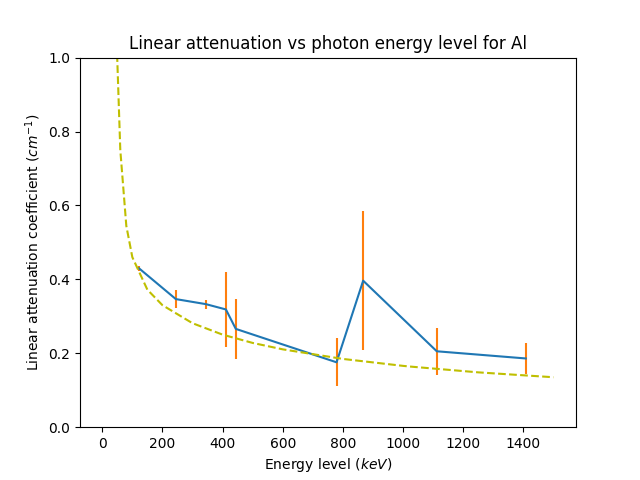
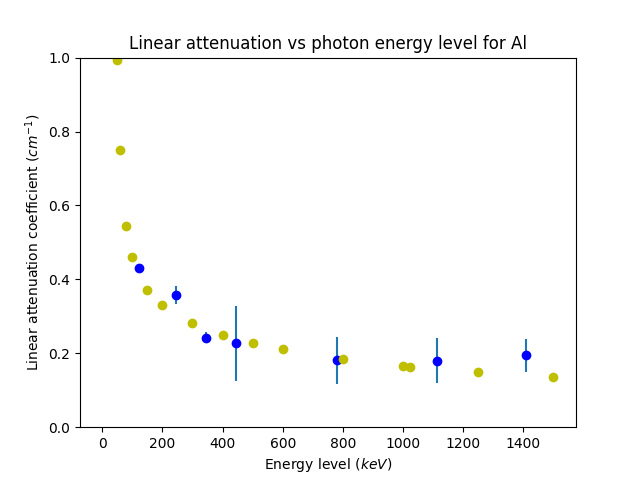
add spectra plots

diff --git a/main.py b/main.py
@@ -23,7 +23,8 @@ def normalise_counts (spe):
   """Normalise counts to be per unit (alive) time. Allows comparison."""
   return { **spe, "counts": spe["counts"] / spe["alive_time"] }
 
-def subtract_background_and_normalise (background):
+background = normalise_counts(parse_spe("Background.spe"))
+def subtract_background_and_normalise ():
   """Subtract normalised background counts and normalise to cnt/unit time."""
   def inner(spe):
     new_spe = normalise_counts(spe)
@@ -40,7 +41,8 @@ def plot_titles (title="", xlabel="", ylabel=""):
 def plot_peaks (spes, energy_levels):
   plt.yscale("log")
   for energy_level in energy_levels:
-    plt.plot(np.arange(len(spes)), [spe["peak"][energy_level][1][0] for spe in spes])
+    plt.plot(np.arange(len(spes)), [spe["peak"][energy_level][1][0] for spe in spes], label=energy_level)
+  plt.legend()
   plt.show()
 
 def peak_channel (spe, minch, maxch):
@@ -63,9 +65,11 @@ def peak_area (spe, a, b):
   """
   s = spe["counts"]
   gross_sum = np.sum(s[a:b+1])
-  area = gross_sum - (s[a]+s[b]) * (b-a) / 2
+  sa = (s[a]+s[a-1]+s[a+1])/3
+  sb = (s[b]+s[b-1]+s[b+1])/3
+  area = gross_sum - (sa+sb) * (b-a) / 2
   # we've normalised the data; unc is only valid for gross data hence the \div sqrt(t)
-  unc = math.sqrt(gross_sum + (s[a]+s[b]) * (b-a)**2 / 4) / math.sqrt(spe['alive_time'])
+  unc = math.sqrt(gross_sum + (sa+sb) * (b-a)**2 / 4 + math.sqrt(np.sum(background['counts'][a:b+1]))/background['alive_time']*math.sqrt(spe['alive_time'])) / math.sqrt(spe['alive_time'])
   return (area, unc)
 
 def smooth(spe):
@@ -77,8 +81,7 @@ def load_spes():
   Creates a filename-indexed dictionary of normalised spectrum dictionaries.
   Also adds filename :: String, absorber :: (String, Int), nuclide :: String fields.
   """
-  background = normalise_counts(parse_spe("Background.spe"))
-  normalise = subtract_background_and_normalise(background)
+  normalise = subtract_background_and_normalise()
   filenames = [
     "152Eu",
     "152EuAl1",
@@ -119,9 +122,9 @@ def calculate_peaks(spes):
       # "39.9100 +/- 0.0500 keV": (25, 75),
       "121.7830+/-0.0020 keV": (150, 180),
       "244.6920+/-0.0020 keV": (315, 340),
-      "344.2760+/-0.0040 keV": (450, 475),
-      "411.1150+/-0.0050 keV": (540, 570),
-      "443.9760+/-0.0050 keV": (580, 610),
+      "344.2760+/-0.0040 keV": (440, 490),
+      # "411.1150+/-0.0050 keV": (530, 570),
+      "443.9760+/-0.0050 keV": (580, 620),
       "778.9030+/-0.0060 keV": (1020, 1070),
       # "867.3880+/-0.0080 keV": (1140, 1180),
       "1112.1160+/-0.0170 keV": (1270, 1320),
@@ -237,12 +240,12 @@ def main():
   spes = calculate_peaks(load_spes())
   series = calculate_attenuation_coeffs(spes)
 
-  # # Graph specific normalised spe files
-  # plot_channel(spes["152Eu"], fact=1)
-  # plot_titles(
-  #   "$^{152} Eu$ $\gamma$-ray spectrum",
-  #   "Detector channel number (1-4096)", "Counts per second"
-  # ) ; plt.show()
+  # Graph specific normalised spe files
+  plot_channel(spes["152EuCu3"])
+  plot_titles(
+    "$^{152} Eu$ $\gamma$-ray spectrum",
+    "Detector channel number (1-4096)", "Counts per second"
+  ) ; plt.show()
 
   # # Display calculated peak positions
   # last_nuclide = None
@@ -263,7 +266,7 @@ def main():
   #   nuclide = data["nuclide"]
   #   absorber = data["absorber"]
   #   plot_titles(
-  #     f"{nuclide} $\gamma$-ray peak areas with {absorber} absorber (each line is a different energy level)",
+  #     f"{nuclide} $\gamma$-ray peak areas with {absorber} absorber",
   #     "No. layers of absorbers", "Counts per second"
   #   )
   #   plot_peaks(data["spes"], data["energy_levels"])
@@ -288,7 +291,7 @@ def main():
     # now energy_levels and coeffs have type [(value, unc)] so we can plot them
     mapFst = lambda xs: [x[0] for x in xs]
     mapSnd = lambda xs: [x[1] for x in xs]
-    plt.plot(mapFst(energy_levels), mapFst(coeffs))
+    plt.plot(mapFst(energy_levels), mapFst(coeffs), 'bo')
     plt.errorbar(
       mapFst(energy_levels), mapFst(coeffs),
       xerr=mapSnd(energy_levels),
@@ -298,7 +301,7 @@ def main():
     # plot the literature values for reference
     # shape is (n, 2); type is [[keV, cm^-1]]
     literature = np.genfromtxt(fname=f"{data['absorber']}XCOM.tsv", delimiter="\t")
-    plt.plot(literature[:,0], literature[:,1], 'y--')
+    plt.plot(literature[:,0], literature[:,1], 'yo')
     if data['absorber'] == 'Cu':
       plt.ylim(0, 3)
     elif data['absorber'] == 'Al':
@@ -307,5 +310,31 @@ def main():
       f"Linear attenuation vs photon energy level for {data['absorber']}",
       "Energy level ($keV$)", "Linear attenuation coefficient ($cm^{-1}$)"
     ) ; plt.show()
+
+  # # Save all graphs
+  # for filename in spes:
+  #   fig = plt.figure()
+  #   plot_channel(spes[filename])
+  #   nuclide = "$^{152} Eu$" if spes[filename]['nuclide'] == "152Eu" else "$^{60} Co$"
+  #   absorbers = spes[filename]['absorber']
+  #   if absorbers:
+  #     s = "s" if absorbers[1]>1 else ""
+  #     absorber_name = {"Pl": "plastic", "Cu": "copper", "Al": "aluminium"}[absorbers[0]]
+  #     absorbers = str(absorbers[1]) + f" layer{s} of " + absorber_name
+  #   else: absorbers = "no absorbers"
+  #   plot_titles(
+  #     nuclide + " $\gamma$-ray spectrum with " + absorbers,
+  #     "Detector channel number", "Counts per second"
+  #   ) ; plt.xlim(0, 2000)
+  #   plt.savefig('./spectra/'+filename+'_spectra.png')
+  #   plt.close(fig)
+  # plt.show()
+  #
+  # # Graph background
+  # plot_channel(normalise_counts(parse_spe("Background.spe")))
+  # plot_titles(
+  #   "Background radiation",
+  #   "Detector channel number (1-4096)", "Counts per second"
+  # ) ; plt.show()
 
 main()
